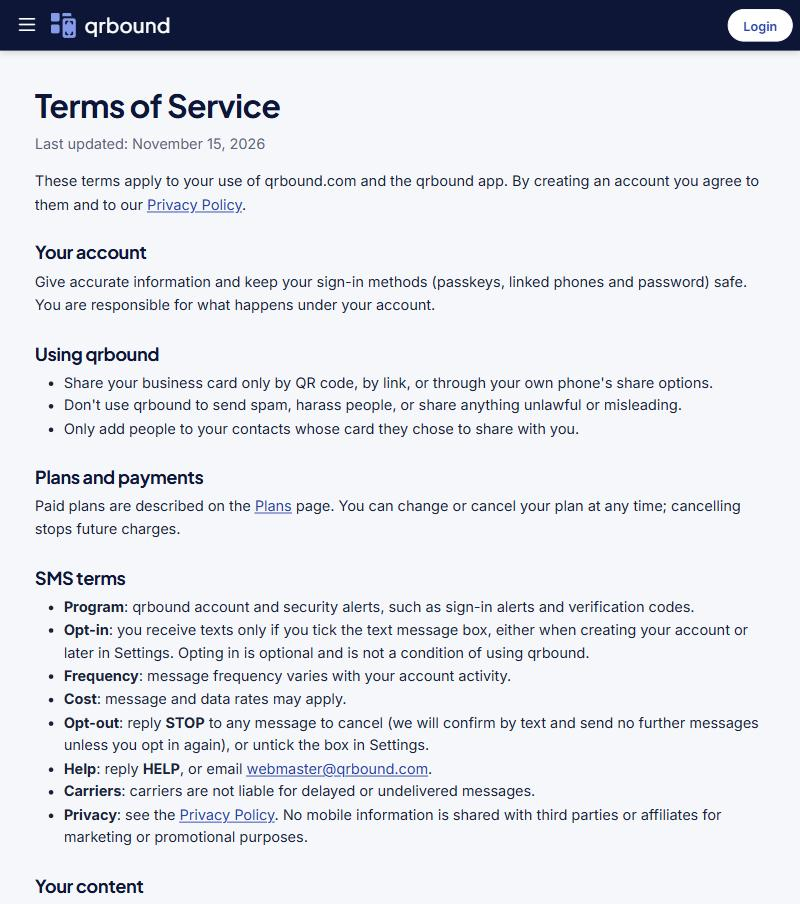
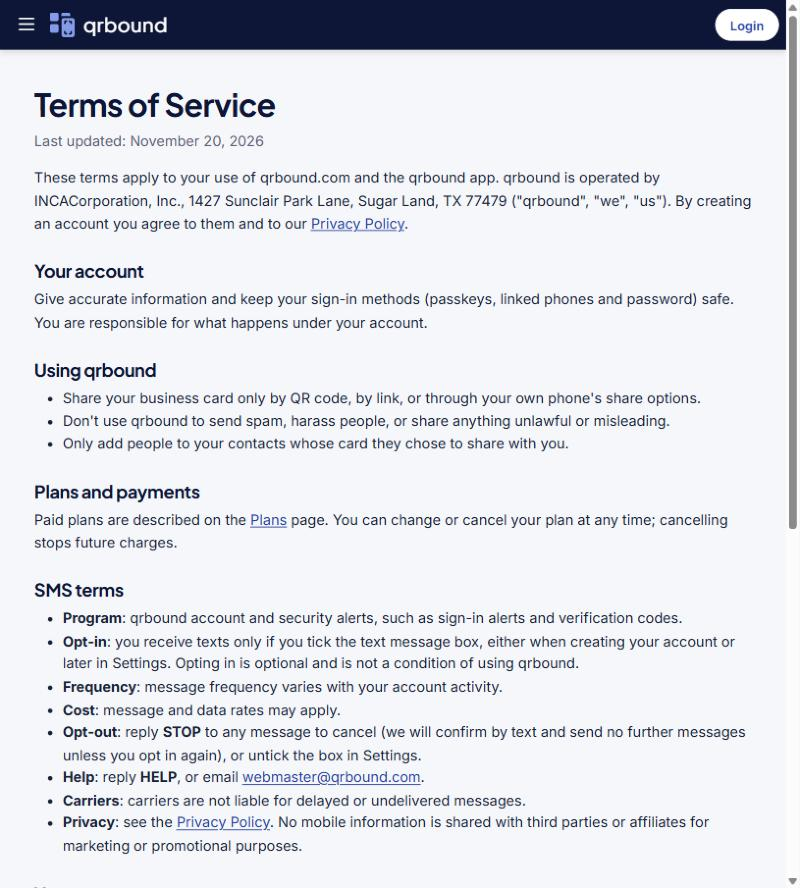
Name INCACorporation, Inc. in the footer, Privacy Policy and Terms
- Homepage footer: "qrbound, a product of INCACorporation, Inc."
- Privacy Policy and Terms: qrbound is operated by INCACorporation,
  Inc. (with address) in the opening paragraph and Contact section;
  last updated November 20, 2026.
- Retook the Terms and Privacy submission screenshots.

Changed region(s): [[0.0312, 0.0912, 0.9375, 1.0], [0.875, 0.0, 1.0, 0.6081], [0.0625, 0.0, 0.2188, 0.0608]]

diff --git a/src/QRBusinessExchange.Client/Pages/LegalInfo.cs b/src/QRBusinessExchange.Client/Pages/LegalInfo.cs
@@ -3,7 +3,12 @@ namespace QRBusinessExchange.Client.Pages;
 /// <summary>Shared details for the Privacy Policy and Terms of Service pages.</summary>
 public static class LegalInfo
 {
-    public const string LastUpdated = "November 15, 2026";
+    public const string LastUpdated = "November 20, 2026";
+
+    /// <summary>The company that operates qrbound (qrbound is its DBA).</summary>
+    public const string LegalName = "INCACorporation, Inc.";
+
+    public const string Address = "1427 Sunclair Park Lane, Sugar Land, TX 77479";
 
     public const string ContactEmail = "webmaster@qrbound.com";
 }
